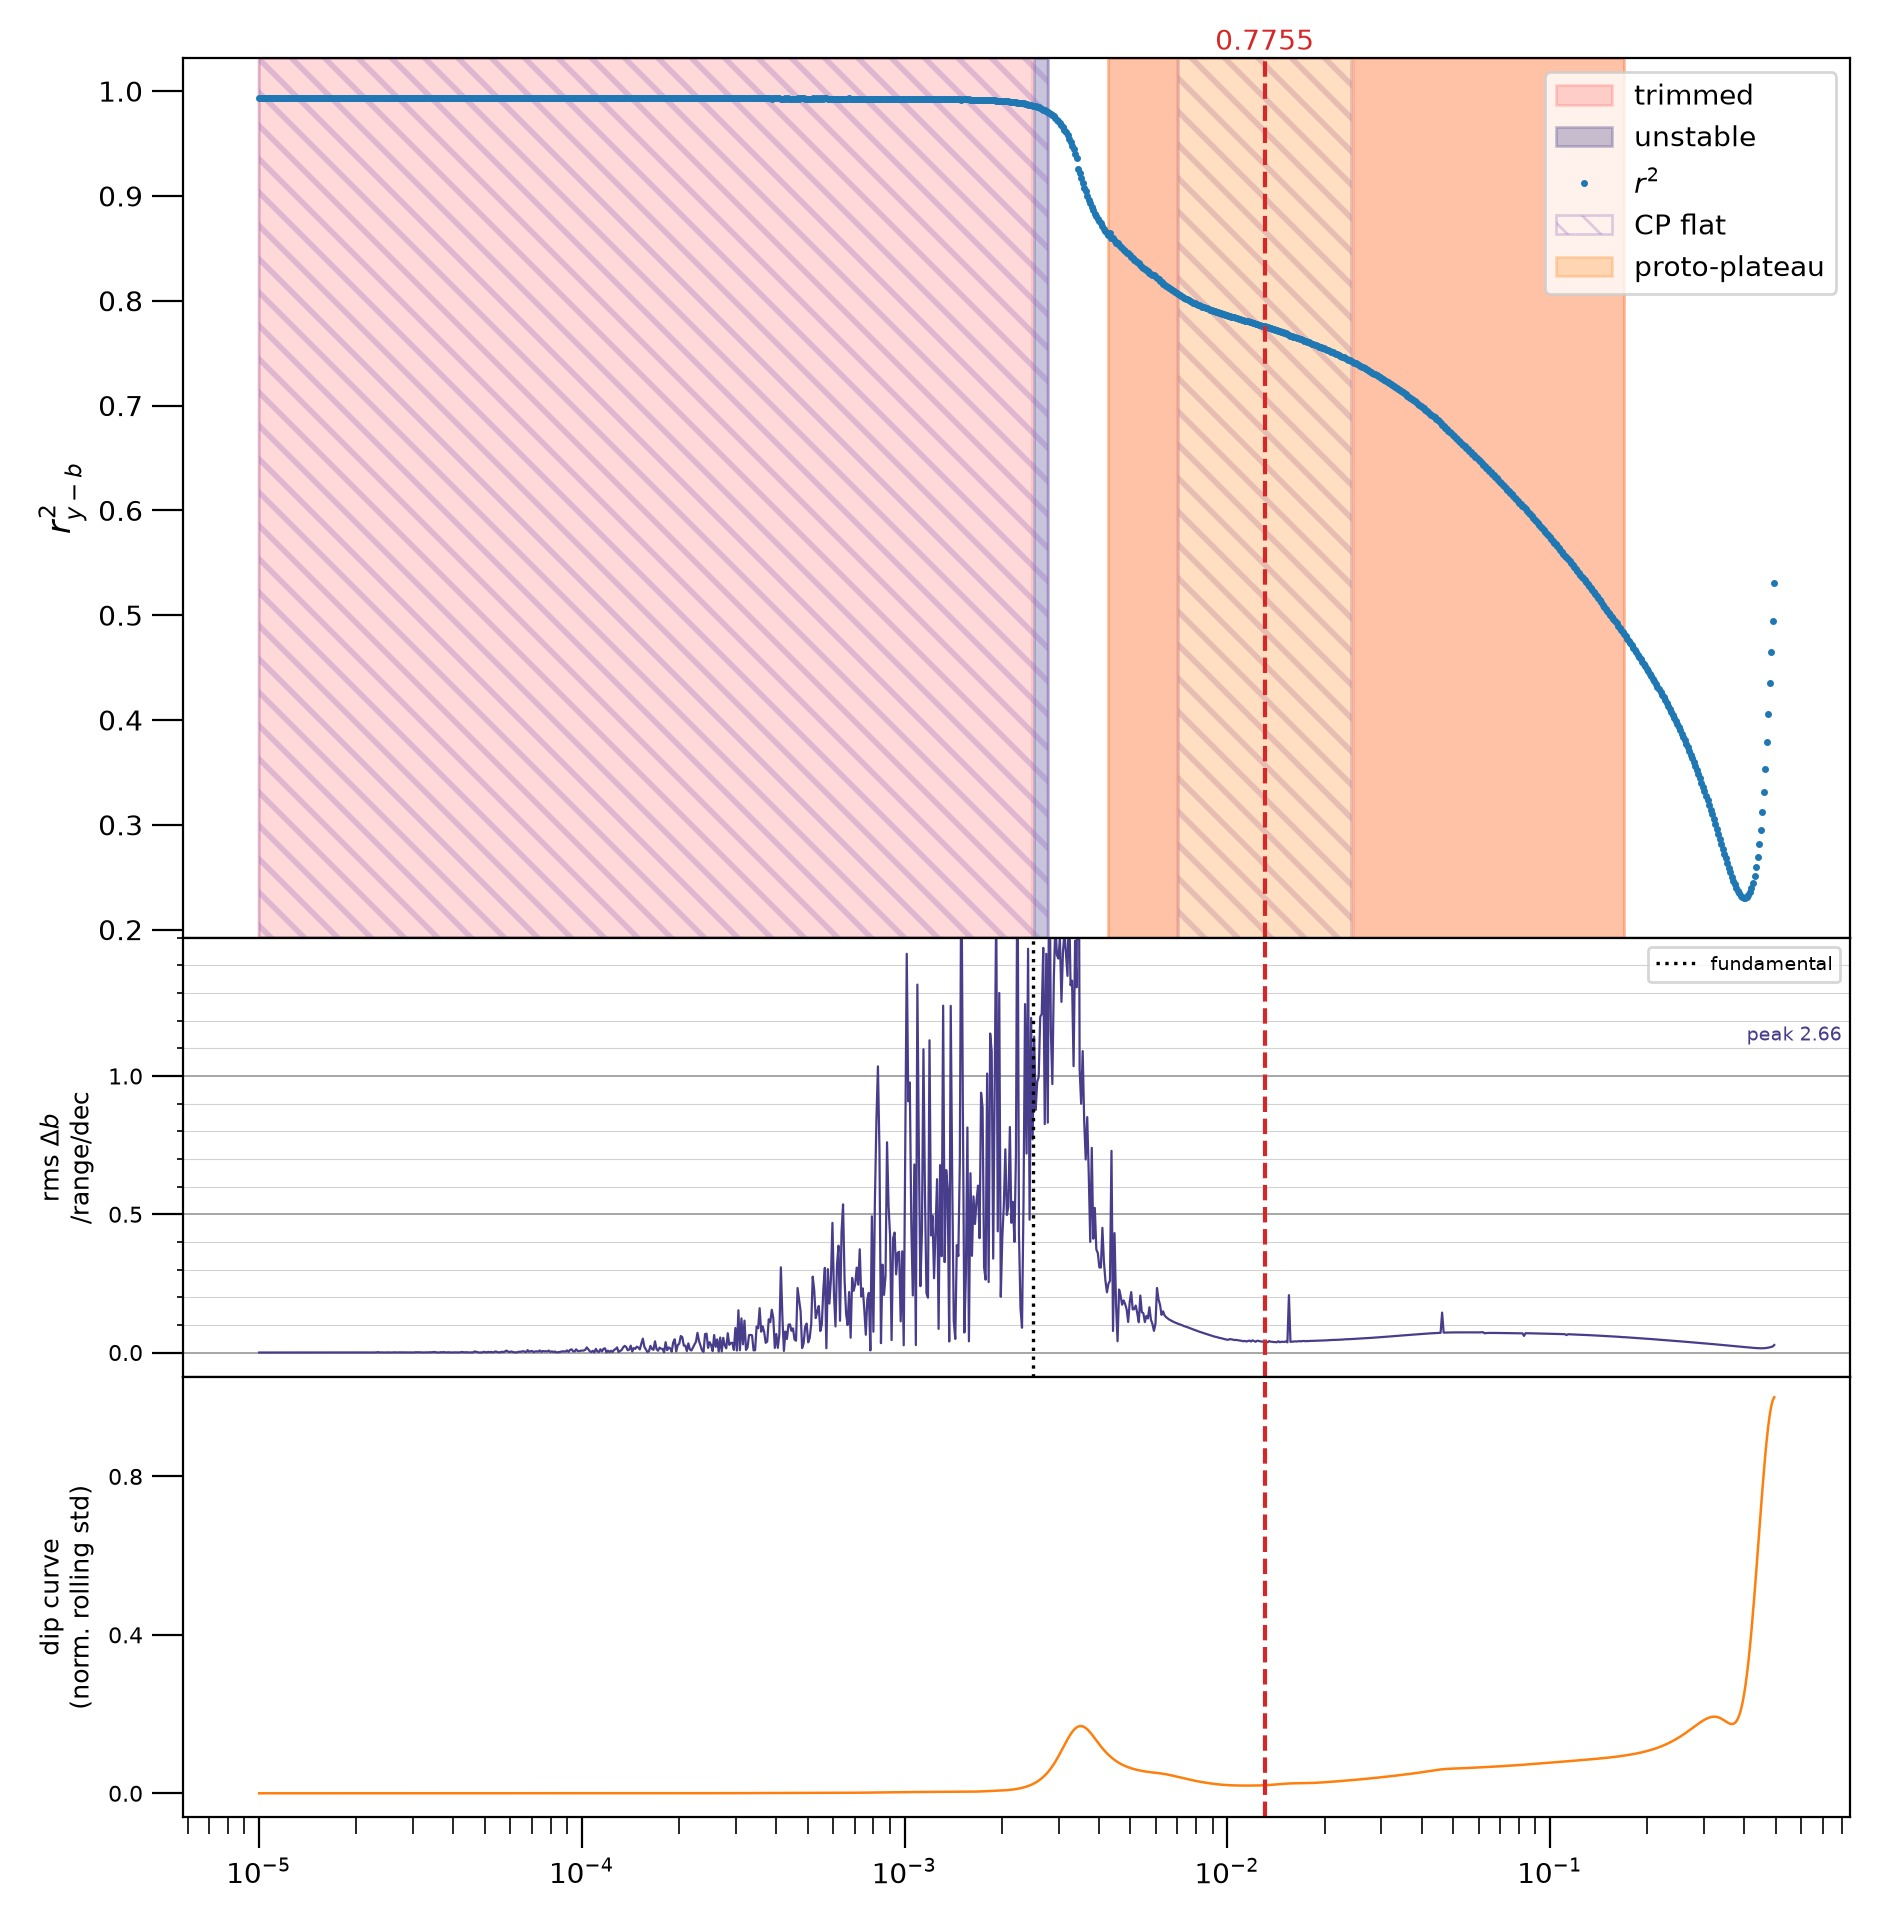
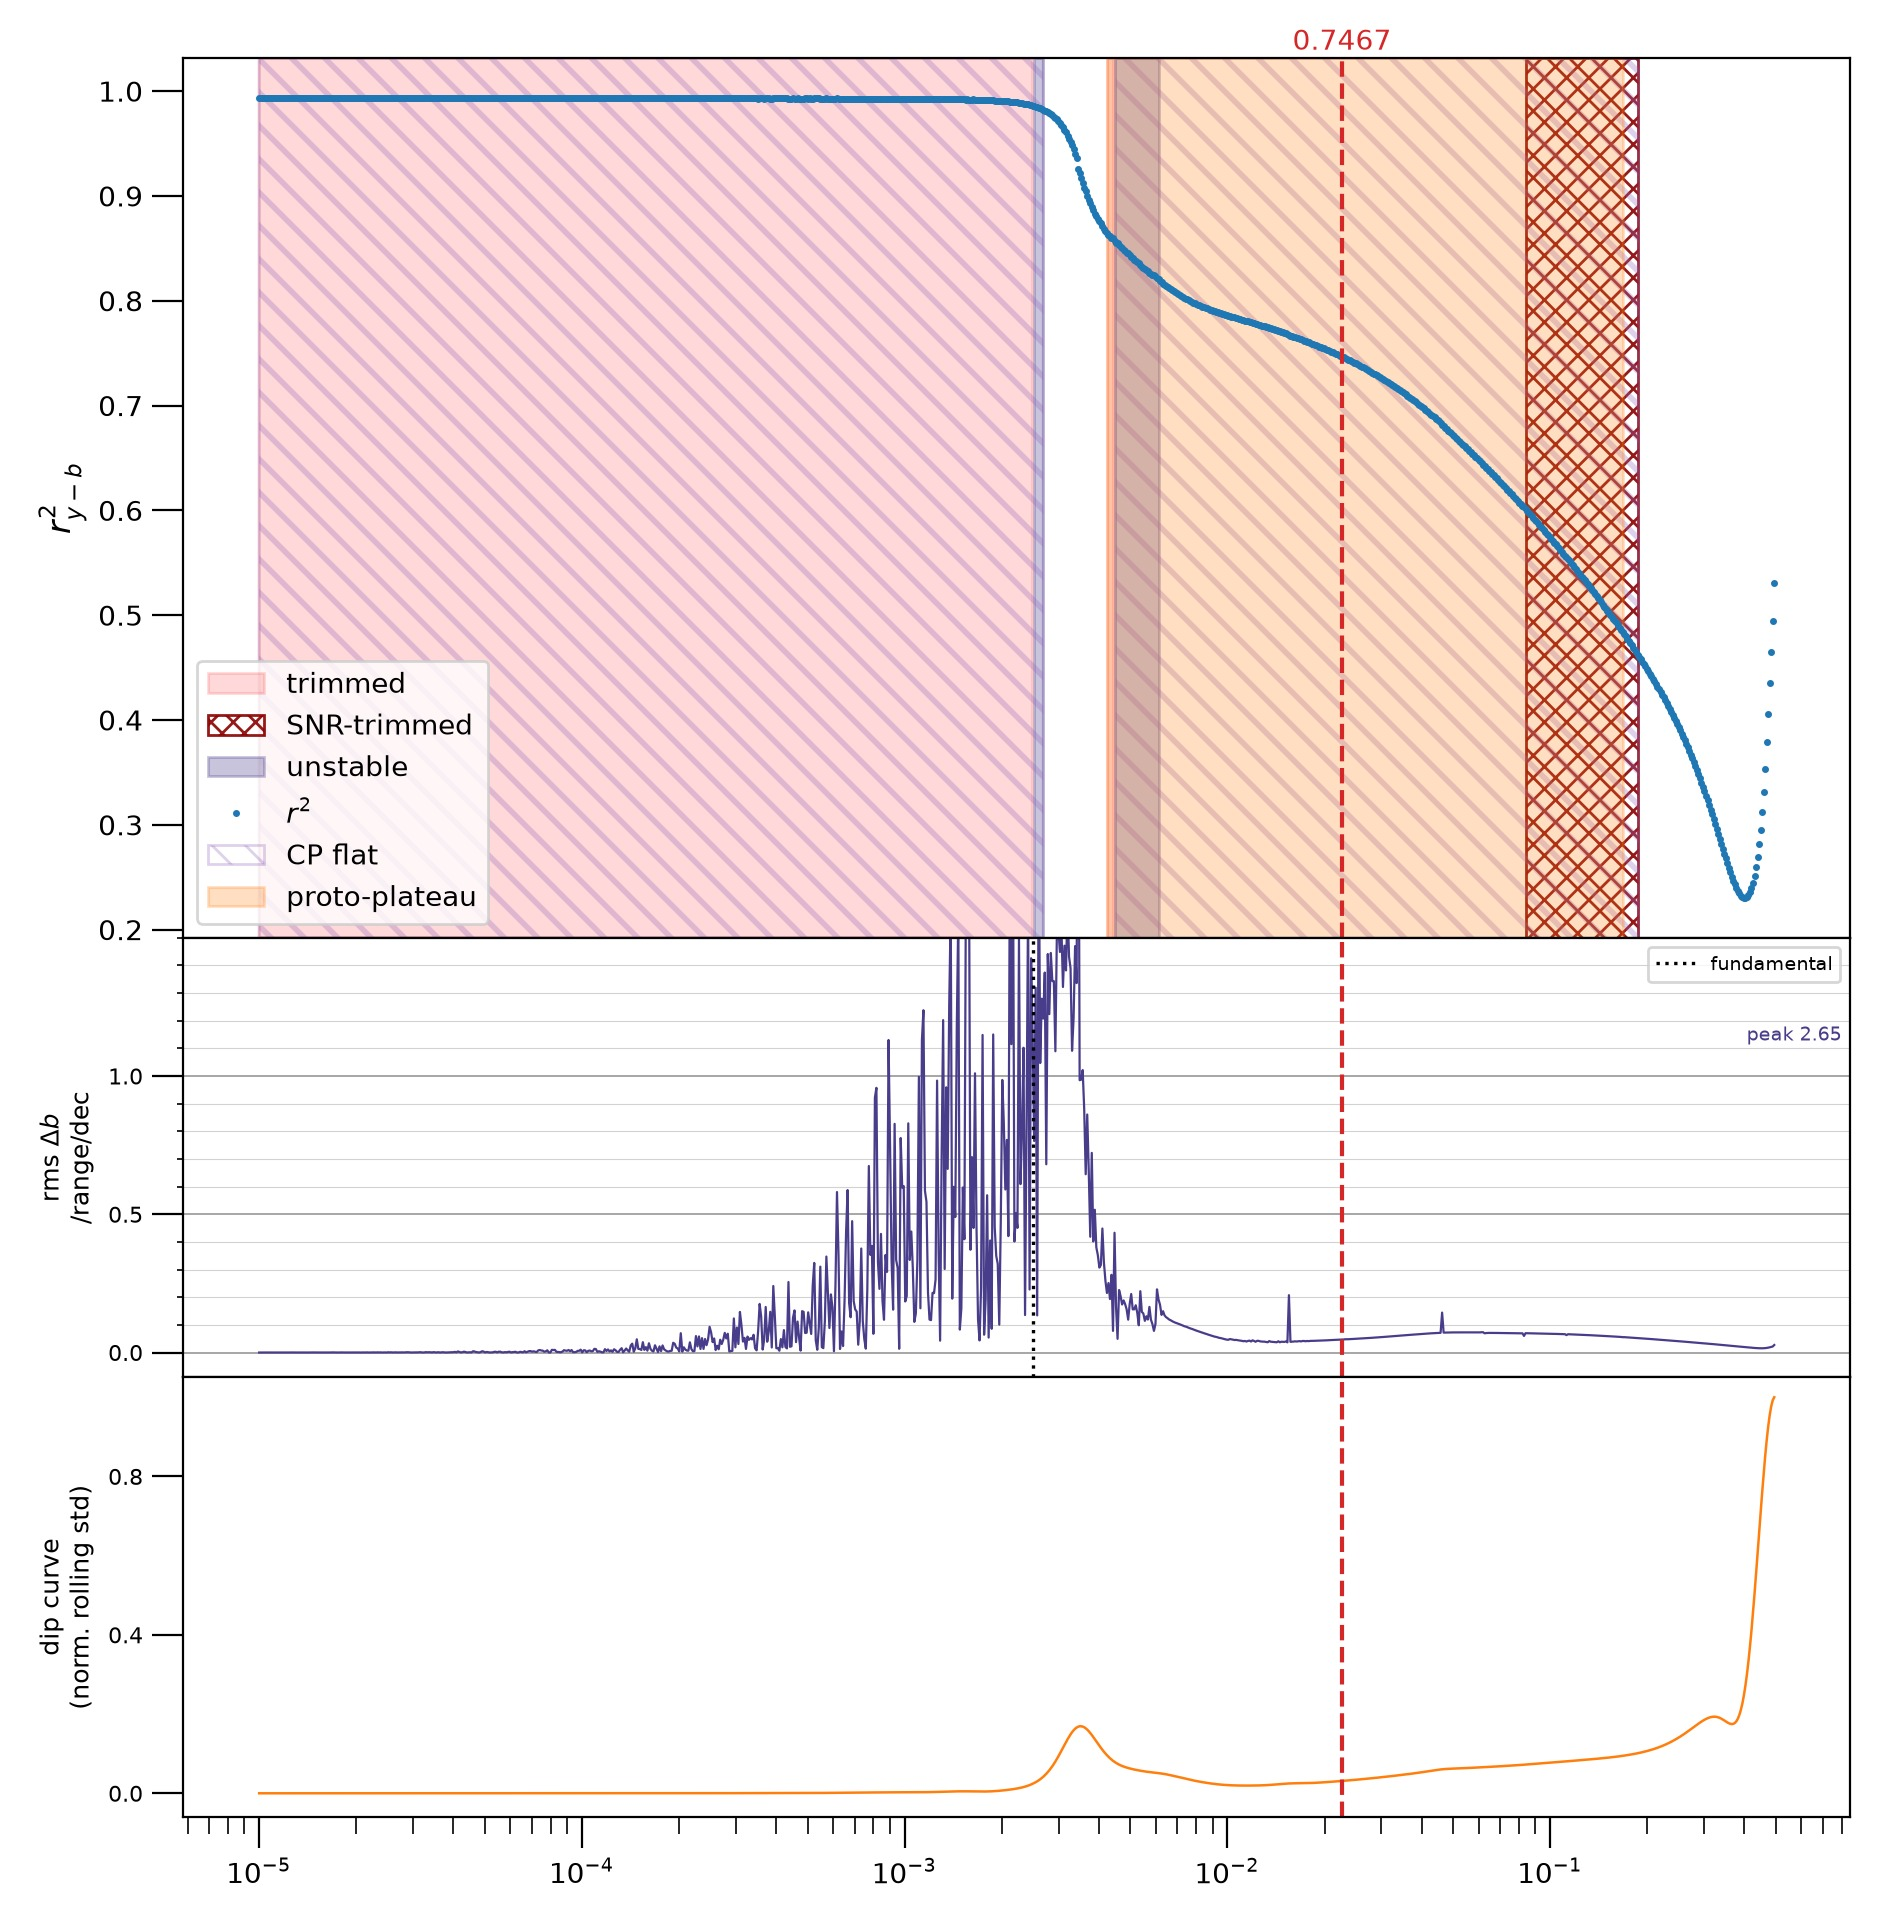
DOC: Re-render the fcut figures from the run that carries dw_val
The five scripts that read a cached curve pointed at PROD_2026-08-20,
which is being retired: its sweep predates dw_val and the selection
changes made since. They now read DW_prod_2026-08-23.

Eight of the fifteen figures change. The six hist_* come from historical
worktrees and method_scut reads the signal rather than the cache, so
those seven are byte-identical.

The change is not only the new default penalty. Holding the code and the
penalty fixed and swapping only the cache moves the worked example from
45 segments to 43, 37 flat to 34, and 21.9% of the pixels: the two
sweeps ran on different numpy and scipy, and BEADS magnifies that at the
stiff end. On the figure signal the curves differ by up to 3.3e-03 in
r2, at f = 4.3e-03, which is above the fundamental and inside the region
the segmentation reads. The selected cutoff is unchanged at 2.2406e-02.

The consequence is worth recording: these figures are reproducible from
the committed cache, but that cache can only be regenerated on the
cluster's library versions.

Changed region(s): [[0.6479, 0.0, 0.9872, 0.5], [0.3394, 0.0312, 0.6479, 0.7188], [0.0926, 0.3438, 0.2777, 0.5]]

diff --git a/tools/fcut/figures/fig_stage23.py b/tools/fcut/figures/fig_stage23.py
@@ -17,7 +17,7 @@ from weaselytics.segmentation import (  # noqa: E402
     segment_features, select_center, trim_plateaus)
 
 CACHE = ('/home/esteban/Simulation/DFT/separation_part2/runs/'
-         'PROD_2026-08-20/r2_cache')
+         'DW_prod_2026-08-23/r2_cache')
 OUT = os.path.dirname(os.path.abspath(__file__))
 STEM = 'Chlorobenzene__LPYE__60-70__2'
 N_USED, DPI = 400, 200

diff --git a/tools/fcut/figures/fig_stage1.py b/tools/fcut/figures/fig_stage1.py
@@ -25,7 +25,7 @@ from weaselytics.segmentation import (  # noqa: E402
     classify_segments, pelt_linear, segment_features)
 
 CACHE = ('/home/esteban/Simulation/DFT/separation_part2/runs/'
-         'PROD_2026-08-20/r2_cache')
+         'DW_prod_2026-08-23/r2_cache')
 OUT = os.path.dirname(os.path.abspath(__file__))
 STEM = 'Chlorobenzene__LPYE__60-70__2'
 DPI = 200

diff --git a/tools/fcut/figures/fig_vocab.py b/tools/fcut/figures/fig_vocab.py
@@ -26,7 +26,7 @@ matplotlib.rcParams['savefig.dpi'] = 200
 import matplotlib.pyplot as plt
 
 CACHE = ('/home/esteban/Simulation/DFT/separation_part2/runs/'
-         'PROD_2026-08-20/r2_cache')
+         'DW_prod_2026-08-23/r2_cache')
 OUT = os.path.dirname(os.path.abspath(__file__))
 STEM = 'Chlorobenzene__LPYE__60-70__2'
 N_USED = 400

diff --git a/tools/fcut/figures/fig_diag.py b/tools/fcut/figures/fig_diag.py
@@ -24,7 +24,7 @@ from weaselytics.parsers import ParsedData  # noqa: E402
 OUT = os.path.dirname(os.path.abspath(__file__))
 STEM = 'Chlorobenzene__LPYE__60-70__2'
 CACHE = ('/home/esteban/Simulation/DFT/separation_part2/runs/'
-         'PROD_2026-08-20/r2_cache')
+         'DW_prod_2026-08-23/r2_cache')
 
 
 def main():

diff --git a/tools/fcut/figures/fig_stages.py b/tools/fcut/figures/fig_stages.py
@@ -28,7 +28,7 @@ from weaselytics.segmentation import (  # noqa: E402
 )
 
 CACHE = ('/home/esteban/Simulation/DFT/separation_part2/runs/'
-         'PROD_2026-08-20/r2_cache')
+         'DW_prod_2026-08-23/r2_cache')
 OUT = os.path.dirname(os.path.abspath(__file__))
 STEM = 'Chlorobenzene__LPYE__60-70__2'
 N_USED = 400
